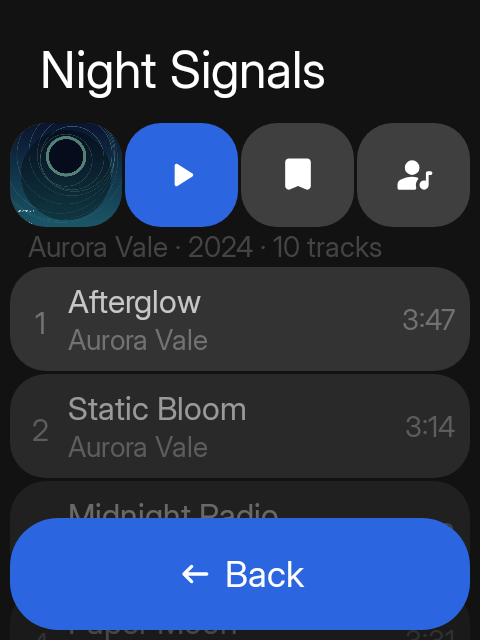
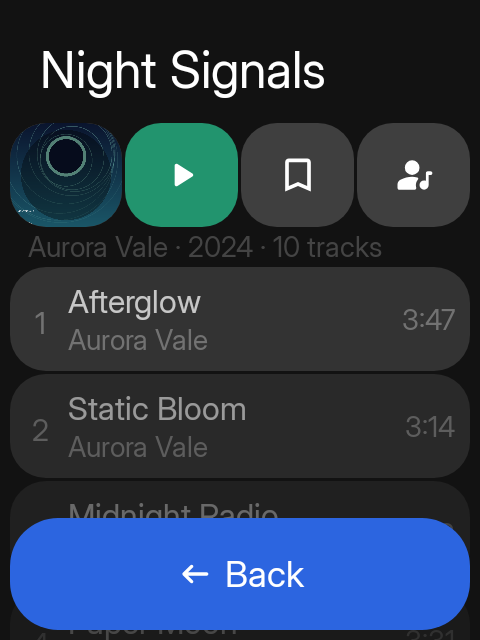
Release Sideplay 0.2.3

Changed region(s): [[0.25, 0.1875, 0.5, 0.375], [0.5938, 0.25, 0.6562, 0.3125]]

diff --git a/app/src/main/java/io/github/manuelrtsch/sideplay/SpotifyLibraryScreens.kt b/app/src/main/java/io/github/manuelrtsch/sideplay/SpotifyLibraryScreens.kt
@@ -111,8 +111,8 @@ fun SideplayHomeScreen(
 internal fun <T : SpotifyMediaItem> queueAction(item: T, onQueue: (T) -> Unit) = SwipeAction(
     label = "Add ${item.title} to queue",
     icon = SidekitIcon.QueueMusic,
-    color = SidekitTheme.colors.primaryA1,
-    armedColor = SidekitTheme.colors.primaryA2,
+    color = SidekitTheme.colors.successA1,
+    armedColor = SidekitTheme.colors.successA2,
     onClick = { onQueue(item) }
 )
 
@@ -322,6 +322,7 @@ fun CollectionScreen(
     state: SpotifyUiState,
     onBack: () -> Unit,
     onPlay: () -> Unit,
+    onPlayPause: () -> Unit,
     onItem: (Int) -> Unit,
     onSave: () -> Unit,
     onArtist: () -> Unit,
@@ -346,18 +347,26 @@ fun CollectionScreen(
         val listState = rememberLazyListState()
         val swipes = rememberSwipeRevealGroup()
         val playFocus = remember { FocusRequester() }
+        val playIds = remember(collection.items) { collection.items.mapTo(mutableSetOf()) { it.id } }
         LaunchedEffect(collection.type, collection.id) { runCatching { playFocus.requestFocus() } }
         SidekitList(padding, state = listState) {
             var rowIndex = 0
             item(key = "tiles") {
                 SidekitItemRow(Modifier.listFade(listState, rowIndex)) {
                     ArtworkTile(collection.artRes, "${collection.title} artwork", Modifier.weight(1f), collection.artUrl)
-                    PlayTile(onPlay, Modifier.weight(1f).focusRequester(playFocus))
+                    ContextPlayTile(
+                        playIds,
+                        state.current?.id,
+                        state.isPlaying,
+                        onPlay,
+                        onPlayPause,
+                        Modifier.weight(1f).focusRequester(playFocus)
+                    )
                     SpotifyIconTile(
-                        if (saved) SidekitIcon.Check else SidekitIcon.Bookmark,
+                        if (saved) SidekitIcon.Bookmark else SidekitIcon.BookmarkBorder,
                         if (saved) "Saved" else "Save",
                         onSave,
-                        tone = if (saved) SpotifyTileTone.On else SpotifyTileTone.Neutral
+                        tone = if (saved) SpotifyTileTone.Library else SpotifyTileTone.Neutral
                     )
                     if (collection.artistId != null) {
                         SpotifyIconTile(SidekitIcon.Artist, "Artist", onArtist)
@@ -413,6 +422,7 @@ fun ArtistScreen(
     state: SpotifyUiState,
     onBack: () -> Unit,
     onPlay: () -> Unit,
+    onPlayPause: () -> Unit,
     onTrack: (SpotifyTrack) -> Unit,
     onQueue: (SpotifyTrack) -> Unit,
     onAlbum: (SpotifyAlbum) -> Unit,
@@ -432,17 +442,25 @@ fun ArtistScreen(
         title = artist.name,
         actions = actions,
         options = listOf(
-            SideAction("follow", if (followed) "Following" else "Follow", tone = if (followed) ActionTone.Secondary else ActionTone.Primary, onClick = onFollow),
+            SideAction("follow", if (followed) "Following" else "Follow", tone = ActionTone.Secondary, onClick = onFollow),
             SideAction("nowPlaying", "Go to now playing", SidekitIcon.MusicNote2, onClick = onNowPlaying)
         )
     ) { padding ->
         val listState = rememberLazyListState()
         val swipes = rememberSwipeRevealGroup()
+        val playIds = remember(tracks) { tracks.mapTo(mutableSetOf()) { it.id } }
         SidekitList(padding, state = listState) {
             var rowIndex = 0
             item(key = "tiles") {
                 SidekitItemRow(Modifier.listFade(listState, rowIndex)) {
-                    PlayTile(onPlay, Modifier.weight(1f))
+                    ContextPlayTile(
+                        playIds,
+                        state.current?.id,
+                        state.isPlaying,
+                        onPlay,
+                        onPlayPause,
+                        Modifier.weight(1f)
+                    )
                     ArtworkTile(artist.artRes, "${artist.name} artwork", Modifier.weight(1f), artist.artUrl)
                 }
             }

diff --git a/app/src/main/java/io/github/manuelrtsch/sideplay/SpotifyComponents.kt b/app/src/main/java/io/github/manuelrtsch/sideplay/SpotifyComponents.kt
@@ -209,6 +209,7 @@ fun RowScope.SpotifyIconTile(
 enum class SpotifyTileTone {
     Neutral,
     Play,
+    Library,
     On,
     Muted
     ;
@@ -216,6 +217,7 @@ enum class SpotifyTileTone {
     fun colour(colors: hrln.interactive.sidekit.design.theme.SidekitColors): Color = when (this) {
         Neutral -> colors.surfaceA3
         Play -> colors.emphasisA1
+        Library -> colors.successA1
         On -> colors.surfaceA5
         Muted -> colors.surfaceA2
     }
@@ -331,8 +333,8 @@ fun SpotifyLoadingScreen(
                     style = Stroke(width = 1.dp.toPx())
                 )
             }
-            drawCircle(colors.primaryA1, radius * 0.34f, centre)
-            drawCircle(colors.primaryA3, radius * 0.34f, centre, style = Stroke(width = 1.dp.toPx()))
+            drawCircle(colors.successA1, radius * 0.34f, centre)
+            drawCircle(colors.successA3, radius * 0.34f, centre, style = Stroke(width = 1.dp.toPx()))
             drawCircle(colors.surfaceA1, radius * 0.055f, centre)
             drawArc(
                 color = colors.light.copy(alpha = 0.18f),
@@ -530,14 +532,53 @@ fun SpotifySeek(positionMs: Long, durationMs: Long, onSeek: (Long) -> Unit, modi
 }
 
 @Composable
-fun PlayTile(onClick: () -> Unit, modifier: Modifier = Modifier) {
+fun PlayTile(playing: Boolean, onClick: () -> Unit, modifier: Modifier = Modifier) {
     SidekitIconItem(
-        SidekitIcon.PlayArrow,
-        "Play",
+        if (playing) SidekitIcon.Pause else SidekitIcon.PlayArrow,
+        if (playing) "Pause" else "Play",
         modifier,
         color = SidekitTheme.colors.emphasisA1,
         iconSize = SidekitTheme.spacing.tileIconSize,
         onClick = onClick
+    )
+}
+
+/**
+ * A page-local play control. It only becomes a pause button after this page started playback,
+ * and only while the current item still belongs to the page's context, so it can never pause
+ * unrelated content.
+ */
+@Composable
+fun ContextPlayTile(
+    contextIds: Set<String>,
+    currentId: String?,
+    isPlaying: Boolean,
+    onPlay: () -> Unit,
+    onPlayPause: () -> Unit,
+    modifier: Modifier = Modifier
+) {
+    var startedHere by remember { mutableStateOf(false) }
+    var pendingStart by remember { mutableStateOf(false) }
+    val controlsHere = startedHere && currentId in contextIds
+    LaunchedEffect(currentId) {
+        when {
+            currentId == null -> Unit
+            pendingStart && currentId in contextIds -> pendingStart = false
+            !pendingStart && currentId !in contextIds -> startedHere = false
+        }
+    }
+    PlayTile(
+        playing = controlsHere && isPlaying,
+        onClick = {
+            if (controlsHere) {
+                onPlayPause()
+            } else {
+                pendingStart = true
+                startedHere = true
+                onPlay()
+            }
+        },
+        modifier = modifier
     )
 }
 

diff --git a/app/src/main/java/io/github/manuelrtsch/sideplay/SpotifyGraph.kt b/app/src/main/java/io/github/manuelrtsch/sideplay/SpotifyGraph.kt
@@ -215,6 +215,7 @@ fun NavGraphBuilder.sideplayGraph(nav: NavHostController) {
                     state,
                     onBack = { nav.popBackStack() },
                     onPlay = { vm.playCollection(collection, 0) },
+                    onPlayPause = vm::togglePlayPause,
                     onItem = { index ->
                         collection.items.getOrNull(index)?.let { item ->
                             nav.openTrack(vm, item) { vm.playCollection(collection, index) }
@@ -257,6 +258,7 @@ fun NavGraphBuilder.sideplayGraph(nav: NavHostController) {
                     state,
                     onBack = { nav.popBackStack() },
                     onPlay = { vm.playArtist(artist) },
+                    onPlayPause = vm::togglePlayPause,
                     onTrack = { track -> nav.openTrack(vm, track) { vm.play(tracks, tracks.indexOf(track)) } },
                     onQueue = vm::addToQueue,
                     onAlbum = { nav.navigate(collectionRoute(SpotifyCollectionType.Album, it.id)) },

diff --git a/app/src/main/java/io/github/manuelrtsch/sideplay/SpotifySearchScreen.kt b/app/src/main/java/io/github/manuelrtsch/sideplay/SpotifySearchScreen.kt
@@ -156,8 +156,8 @@ fun SpotifySearchScreen(
                                 action = SwipeAction(
                                     label = "Add ${track.title} to queue",
                                     icon = SidekitIcon.QueueMusic,
-                                    color = SidekitTheme.colors.primaryA1,
-                                    armedColor = SidekitTheme.colors.primaryA2,
+                                    color = SidekitTheme.colors.successA1,
+                                    armedColor = SidekitTheme.colors.successA2,
                                     onClick = { onQueue(track) }
                                 )
                             ) {

diff --git a/app/src/main/java/io/github/manuelrtsch/sideplay/DesignCompat.kt b/app/src/main/java/io/github/manuelrtsch/sideplay/DesignCompat.kt
@@ -6,8 +6,8 @@ import hrln.interactive.sidekit.design.action.SideAction
 import hrln.interactive.sidekit.design.icons.SidekitIcon
 import hrln.interactive.sidekit.design.theme.SidekitColors
 
-/** The current design token for the blue emphasis fill used by Sideplay tiles. */
-val SidekitColors.emphasisA1: Color get() = primaryA1
+/** The emphasis fill for content controls such as play, save, and selection. */
+val SidekitColors.emphasisA1: Color get() = successA1
 
 /** The bar while a delete can still be taken back. */
 fun undoBar(continueWith: SideAction, undo: SideAction? = null): List<SideAction> = if (undo == null) listOf(continueWith) else listOf(continueWith, undo)

diff --git a/app/src/main/java/io/github/manuelrtsch/sideplay/SpotifyNowPlayingScreens.kt b/app/src/main/java/io/github/manuelrtsch/sideplay/SpotifyNowPlayingScreens.kt
@@ -65,7 +65,7 @@ fun SpotifyNowPlayingScreen(
     val save = (current as? SpotifyTrack)?.let {
         SideAction.square(
             "save",
-            if (state.savedCurrent) SidekitIcon.Bookmark else SidekitIcon.Bookmark,
+            if (state.savedCurrent) SidekitIcon.Bookmark else SidekitIcon.BookmarkBorder,
             if (state.savedCurrent) "Saved" else "Save",
             onSave,
             tone = if (state.savedCurrent) ActionTone.Secondary else ActionTone.Muted,

diff --git a/app/src/test/java/io/github/manuelrtsch/sideplay/SideplayScreenshotTest.kt b/app/src/test/java/io/github/manuelrtsch/sideplay/SideplayScreenshotTest.kt
@@ -108,6 +108,7 @@ class SideplayScreenshotTest {
             state,
             onBack = {},
             onPlay = {},
+            onPlayPause = {},
             onItem = {},
             onSave = {},
             onArtist = {},
@@ -130,6 +131,7 @@ class SideplayScreenshotTest {
             state,
             onBack = {},
             onPlay = {},
+            onPlayPause = {},
             onTrack = {},
             onQueue = {},
             onAlbum = {},

diff --git a/docs/SIDEPLAY.md b/docs/SIDEPLAY.md
@@ -29,8 +29,10 @@ Spotify.
   Long lists end with a "Load more" row.
 - **Keypad first.** Every interactive row is focusable, has a visible focus ring, and a 48 dp
   minimum target. Do not fade the focused element.
-- **Content never wears the theme colour.** Selection, progress, and saved state use emphasis;
-  the case colour belongs to primary actions.
+- **Content never wears the theme colour.** Play, selection, progress, save/unsave, and
+  follow/unfollow use the Library success fill; the case colour belongs to action-bar actions
+  only. Save controls are always bookmark tiles: hollow (`BookmarkBorder`) when unsaved, filled
+  (`Bookmark`) when saved.
 - **No new dependencies** for images, DI, persistence, or media. Reuse the SDK's
   `RemoteArtwork`, `EncryptedFileStore`, `UndoWindow`, and `NativeLibraries`; keep app-local
   media coordination, plain repositories, and manual wiring.
@@ -73,7 +75,8 @@ lyrics/Canvas/video, social features, account management, crossfade/EQ, and trac
 - Library write-back is optimistic with rollback: like/unlike, save/remove album and show,
   follow/unfollow artist, add/remove playlist. Saves and follows offer Undo for five visible
   seconds; queue actions are silent. The open Library section is patched in place, so a save or
-  follow appears immediately and rolls back if the write fails.
+  follow appears immediately and rolls back if the write fails. Save/bookmark and follow states
+  keep the same success fill in both directions, matching the Home Library tile.
 - Saved songs, albums, artists and shows are ordered by Spotify's `added_at`, newest first. The
   collection page is read once, filtered by URI prefix, and cached for two minutes; writes
   invalidate that cache.

diff --git a/docs/DEVICE-CHECKLIST.md b/docs/DEVICE-CHECKLIST.md
@@ -56,6 +56,11 @@ driven from `adb`.
       opening Options.
 - [ ] **Manual:** Home shows five recently played items and **See more history** when more exist;
       History shows the full list, X removes one entry, and left swipe still offers Add to queue.
+- [ ] **Manual:** on Now Playing, album, playlist, show, and artist screens, confirm the play
+      control and every save/bookmark or follow control use the Library success fill, never the
+      case/primary colour outside the action bar.
+- [ ] **Manual:** confirm save controls show a hollow bookmark when unsaved and a filled bookmark
+      when saved, and that follow/unfollow keeps the same success fill in both states.
 - [ ] **Manual:** play a show episode, let it advance from the notification, and confirm it appears
       in Recently played / History with the show name.
 - [ ] **Manual:** search results and History fade toward the bottom action bar, and the focused row
